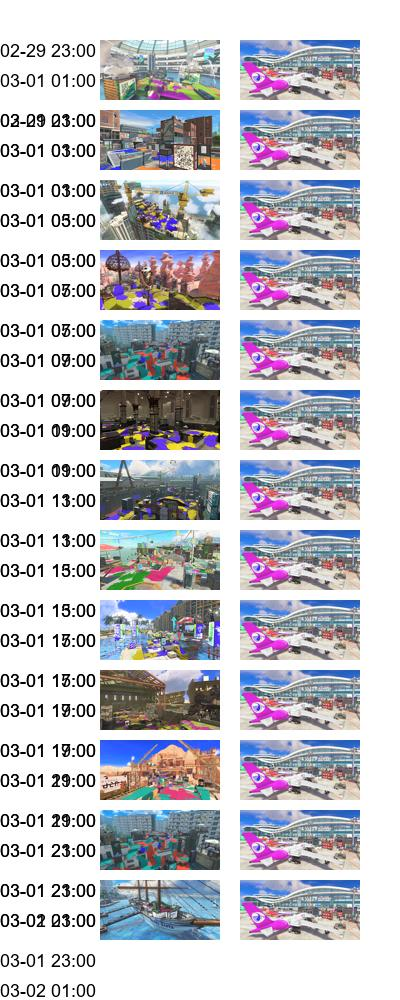
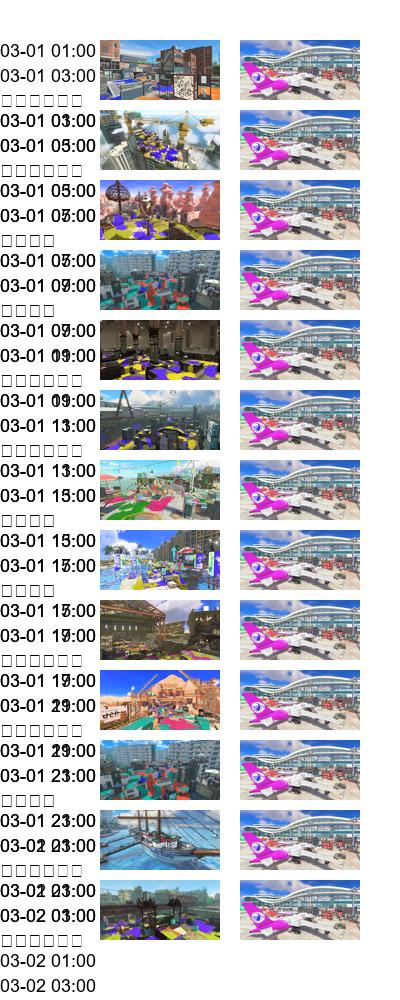
tmp

Changed region(s): [[0.0, 0.031, 0.57, 1.0]]

diff --git a/splat/renderer.py b/splat/renderer.py
@@ -62,6 +62,68 @@ def render_battle(li):
         i = 1 - i
     return re
 
+def parse_zg(li):
+    width = 400
+    height = 1000
+    i = 0
+    re = Image.new("RGB", (width, height), "white")
+    tmp  = ImageDraw.Draw(re)
+    x = 100
+    y = 40
+    for idx, item in enumerate(li):
+        # print(item)
+        start = item['start']
+        end = item['end']
+        name = item['name_cn']
+        url = item['img']
+        rule = item['rule']
+        # Send a GET request to the URL
+        response = requests.get(url)
+        
+        # Check if the request was successful
+        if response.status_code == 200:
+            # Read the content of the response as bytes
+            image_bytes = BytesIO(response.content)
+            
+            # Open the image using Pillow
+            image_to_add = Image.open(image_bytes)
+            
+            # Resize image:
+            scale = 0.3
+            size = (int(scale * image_to_add.size[0]), int(scale * image_to_add.size[1]))
+            image_to_add = image_to_add.resize(size)
+
+            # Put add image
+            position = (x, y)
+            x = 340 - x
+            #x=100 is the default 
+            if x == 100:
+                y+= 70
+
+            re.paste( image_to_add,position)
+            
+            # Choose a font and size
+            font = ImageFont.truetype("arial.ttf", size=18)
+            
+            # Specify text position
+            text_position = (0, y)
+            end_position = (0,y+25)
+            rule_position = (0,y+50)
+        
+            # Add text to the image
+            tmp.text(text_position, start, fill="black", font=font)
+            tmp.text(end_position, end, fill="black", font=font)
+            tmp.text(rule_position, rule, fill="black", font=font)
+
+
+            
+        else:
+            # If the request failed, print an error message
+            print(f"Failed to retrieve image from URL: {url}")
+            return None
+        i = 1 - i
+    return re
+
 def render_coop(li):
     width = 400
     height = 1000
@@ -101,7 +163,7 @@ def render_coop(li):
                 
                 # Specify text position
                 text_position = (0, 10)
-                txt = start + " - " + end + " Boss: "
+                txt = start + " - " + end + " Boss: " + boss
 
                 # Add text to the image
                 tmp.text(text_position, txt, fill="black", font=font)
@@ -132,7 +194,7 @@ def render_coop(li):
 
                 # Specify text position
                 text_position = (0, y-30)
-                txt = start + " - " + end + " Boss: "
+                txt = start + " - " + end + " Boss: " + boss
 
                 # Add text to the image
                 tmp.text(text_position, txt, fill="black", font=font)
@@ -154,7 +216,4 @@ def render_coop(li):
 
                 y += 160
 
-
-            # re.show()
-            # print(item)
     return re

diff --git a/splat/crawler.py b/splat/crawler.py
@@ -79,14 +79,14 @@ def parse_challenge():
         # End time
         end = timezone_conversion(item['endTime'])
         # Rule
-        rule = 
+        rule = translate_rule(item["bankaraMatchSettings"][0]["vsRule"]['id'])
         for vs_stage in item["bankaraMatchSettings"][0]['vsStages']:
             # Chinese name of the stage
             name_cn = translate_stage(vs_stage["id"])
             # Url of the stage
             img = vs_stage['image']['url']
 
-            tmp = dict({'start':start, 'end': end, 'name_cn':name_cn,'img':img})
+            tmp = dict({'start':start, 'end': end, 'name_cn':name_cn,'img':img, "rule":rule})
             stages.append(tmp)
 
     return stages
@@ -99,13 +99,15 @@ def parse_open():
         start = timezone_conversion(item['startTime'])
         # End time
         end = timezone_conversion(item['endTime'])
+        # Rule
+        rule = translate_rule(item["bankaraMatchSettings"][1]["vsRule"]['id'])
         for vs_stage in item["bankaraMatchSettings"][1]['vsStages']:
             # Chinese name of the stage
             name_cn = translate_stage(vs_stage["id"])
             # Url of the stage
             img = vs_stage['image']['url']
 
-            tmp = dict({'start':start, 'end': end, 'name_cn':name_cn,'img':img})
+            tmp = dict({'start':start, 'end': end, 'name_cn':name_cn,'img':img,'rule':rule})
             stages.append(tmp)
 
     return stages
@@ -120,6 +122,8 @@ def parse_x():
         start = timezone_conversion(item['startTime'])
         # End time
         end = timezone_conversion(item['endTime'])
+        # Rule
+        rule = translate_rule(item["xMatchSetting"]["vsRule"]['id'])
         for vs_stage in item["xMatchSetting"]['vsStages']:
             # Chinese name of the stage
             name_cn = translate_stage(vs_stage["id"])

diff --git a/base/func_chatgpt.py b/base/func_chatgpt.py
@@ -18,9 +18,9 @@ class ChatGPT():
         self.model = conf.get("model", "gpt-4-0125-preview")
         self.LOG = logging.getLogger("ChatGPT")
         if proxy:
-            self.client = OpenAI(api_key=key, base_url=api, http_client=httpx.Client(proxy=proxy), max_tokens=max_token)
+            self.client = OpenAI(api_key=key, base_url=api, http_client=httpx.Client(proxy=proxy))
         else:
-            self.client = OpenAI(api_key=key, base_url=api, max_tokens=max_token)
+            self.client = OpenAI(api_key=key, base_url=api)
         self.conversation_list = {}
         self.system_content_msg = {"role": "system", "content": prompt}
 
@@ -41,7 +41,8 @@ class ChatGPT():
         try:
             ret = self.client.chat.completions.create(model=self.model,
                                                       messages=self.conversation_list[wxid],
-                                                      temperature=0.2)
+                                                      temperature=0.2,
+                                                      max_tokens=self.max_token)
             rsp = ret.choices[0].message.content
             rsp = rsp[2:] if rsp.startswith("\n\n") else rsp
             rsp = rsp.replace("\n\n", "\n")

diff --git a/splat/main.py b/splat/main.py
@@ -8,11 +8,11 @@ def get_regular():
 
 def get_challenge():
     li = parse_challenge()
-    return render_battle(li)
+    return parse_zg(li)
 
 def get_open():
     li = parse_open()
-    return render_battle(li)
+    return parse_zg(li)
 
 def get_coop():
     li = parse_coop()
@@ -20,5 +20,6 @@ def get_coop():
 
 def get_x():
     li = parse_x()
-    return render_battle(li)
+    return parse_zg(li)
+
 

diff --git a/splat/script.py b/splat/script.py
@@ -1,7 +1,12 @@
 import requests
 
-url = "https://splatoon3.ink/data/schedules.json"
+url = "https://splatoon3.ink/data/stages.json"
 # Get data from database
-r = requests.get(url).json()["data"]
+r = requests.get(url).json()["data"]['stageRecords']['nodes']
 
 # TODO download images
+# print(r)
+for it in r:
+    name = it['name']
+    
+    print(it)
